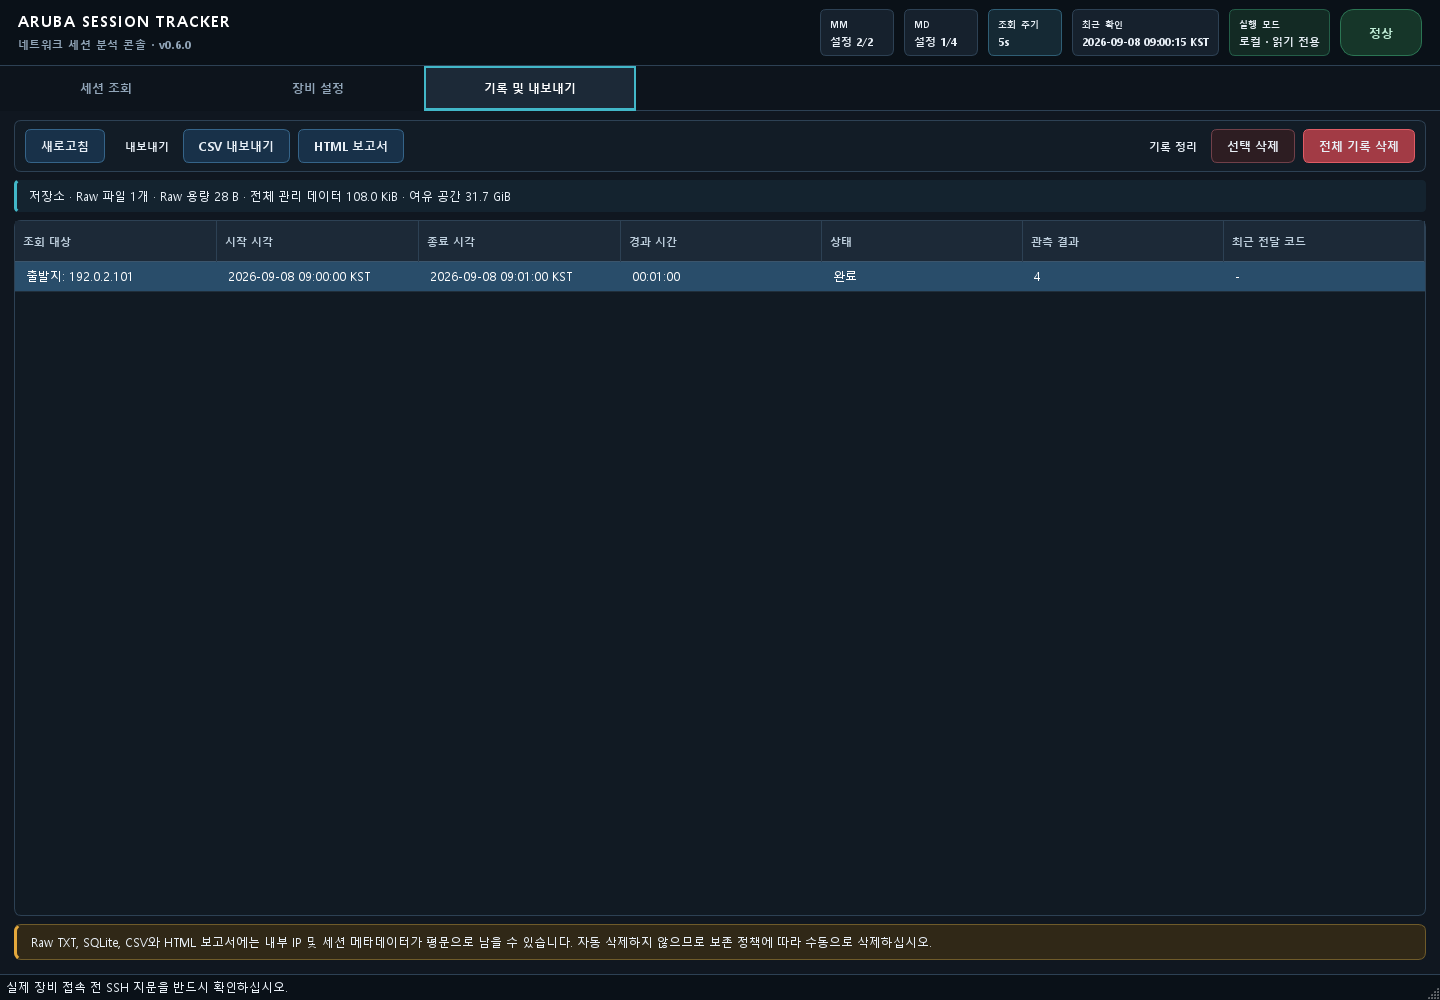
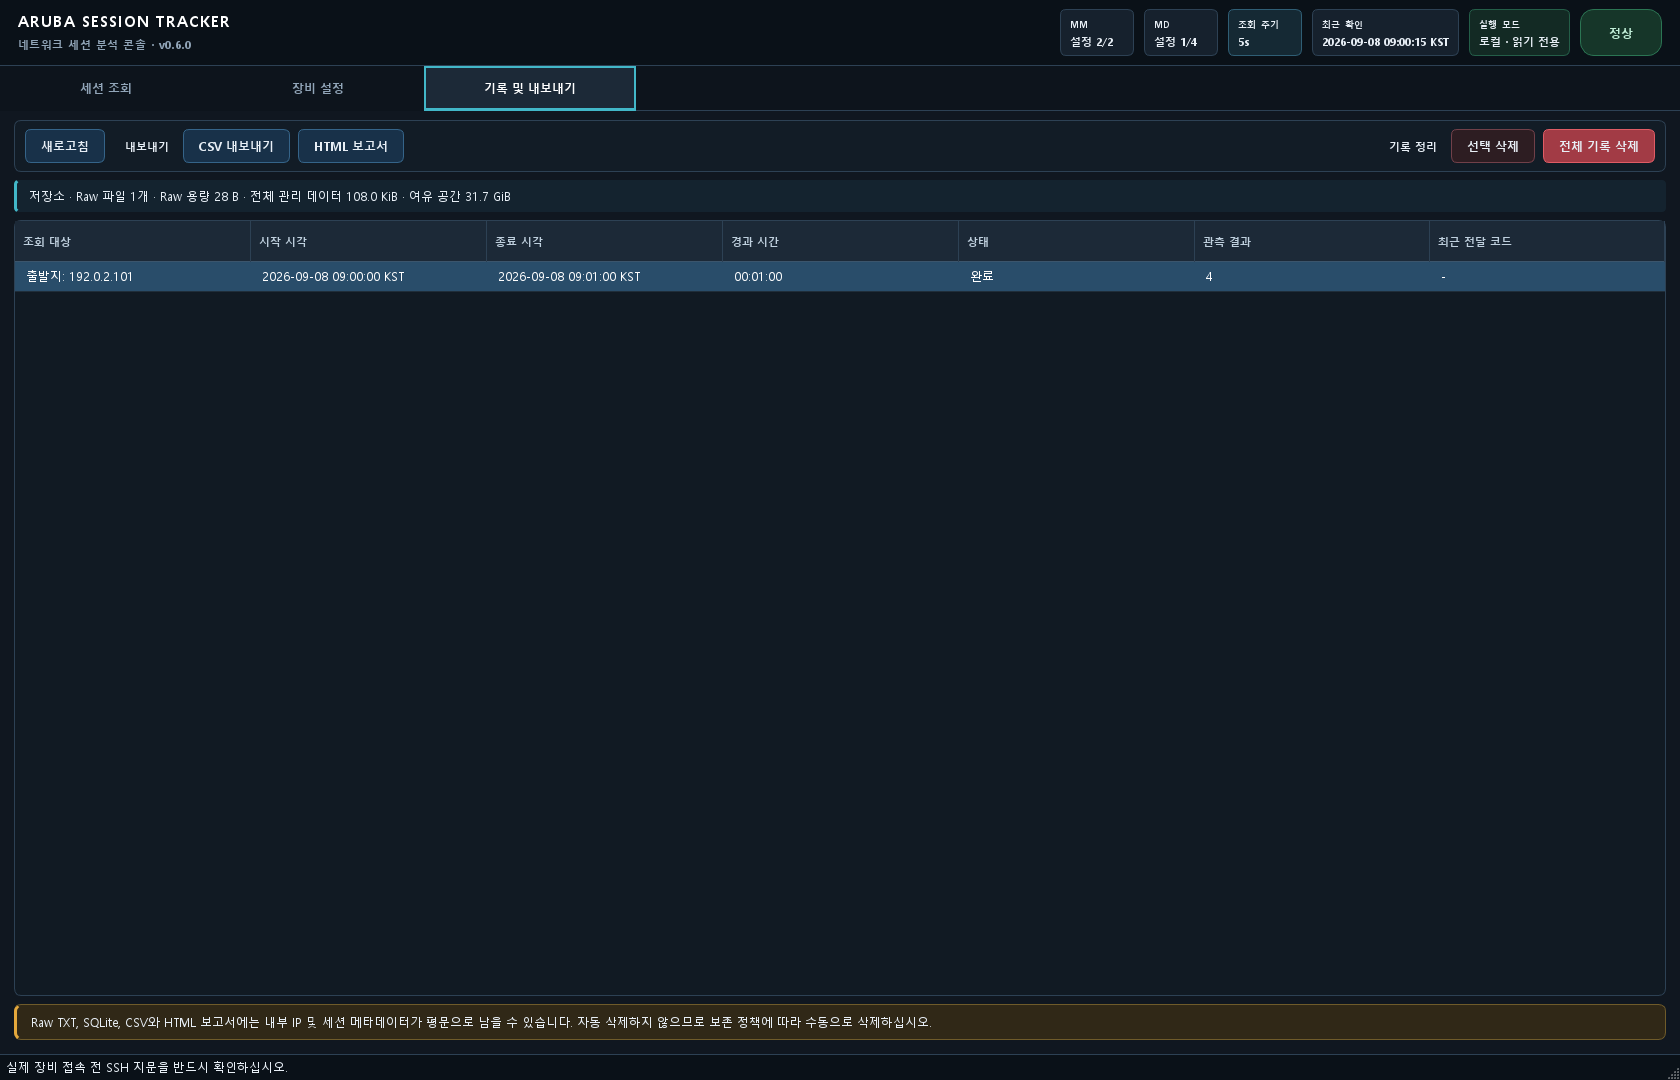
docs: refresh legible session timing and complete header screenshots

Changed region(s): [[0.0, 0.0, 1.0, 0.31], [0.0, 0.899, 1.0, 1.0], [0.5625, 0.0, 1.0, 0.062]]

diff --git a/docs/USAGE_SCREENSHOTS_KO.md b/docs/USAGE_SCREENSHOTS_KO.md
@@ -28,7 +28,7 @@
 - **읽을 값:** 실행 조건·시작/종료·상태·관측 수를 먼저 확인합니다. 예시는 임시 SQLite에 저장한 1분 실행, 4개 관측입니다. `완료`는 수집 실행 상태이며 장애 해결을 뜻하지 않습니다.
 - **다음 행동:** 조사 목적에 맞춰 결과 파일을 저장한 뒤 공유 전 IP 등 민감정보를 점검합니다. 오른쪽 삭제 동작은 내보내기와 다른 작업입니다.
 
-이력 위쪽 저장소 용량·여유 공간은 임시 합성 저장소와 CI 러너의 로컬 디스크 값이며 사용자 PC의 값이 아닙니다. 조회 화면의 작은 최근 확인 카드와 시작시각 행 일부는 이 캡처에서 잘려 보이므로, 정확한 시간은 이력 표와 보고서에서 확인합니다.
+이력 위쪽 저장소 용량·여유 공간은 임시 합성 저장소와 CI 러너의 로컬 디스크 값이며 사용자 PC의 값이 아닙니다.
 
 ## 4. 독립 HTML 조사 보고서 읽기
 
@@ -42,10 +42,11 @@
 
 ## 캡처 출처와 재현
 
-캡처 소스: `543f8ec4e24d623601dbe8d9bc050570bb078a58`. [Windows 생성 실행 34175800866](https://github.com/sebia1993/aruba-session-tracker-1/actions/runs/34175800866)에서 4개 PNG를 내려받아 직접 검토했습니다.
+캡처 소스: `59c728f69bdf938fbe8bf270c897aa10edf00f4e`. [Windows 생성 실행 34176973002](https://github.com/sebia1993/aruba-session-tracker-1/actions/runs/34176973002)에서 4개 PNG를 내려받아 직접 검토했습니다.
 
 - 앱 버전: **0.6.0**. 캡처 소스 SHA·실행 ID·PNG 크기·SHA-256은 [capture-metadata.json](images/capture-metadata.json)에 기록합니다.
 - 도구: [render_docs_screenshots.py](../tools/render_docs_screenshots.py), [Windows 캡처 workflow](../.github/workflows/docs-screenshots.yml).
+- Qt 창은 1680×1080이며, 비동기 결과 표시 후 레이아웃이 안정될 때까지 기다려 최근 확인 시각 전체를 캡처합니다. 조회 시작·경과 시간은 같은 합성 저장 실행의 09:00 KST·1분에 맞춰 표시 필드에 넣었습니다. 조회 버튼이나 네트워크 수집을 실행한 것은 아닙니다.
 - 환경: GitHub Actions `windows-latest`가 선택한 **Windows Server 2025**, CPython 3.13.15 x64, PySide6 6.11.0, Qt offscreen 100%, Windows 내장 Malgun Gothic. 물리 Windows 11 데스크톱 캡처와 구분합니다.
 - 데이터 경로: 임시 ConfigRepository/SessionStore → 합성 QueryOutcome → 실제 MainWindow / 실제 HTML export → PNG. 실제 RuntimeExecutor를 만들지 않고 Python socket 연결도 차단합니다. 임시 DB·Raw·HTML은 종료 시 제거합니다.
 
